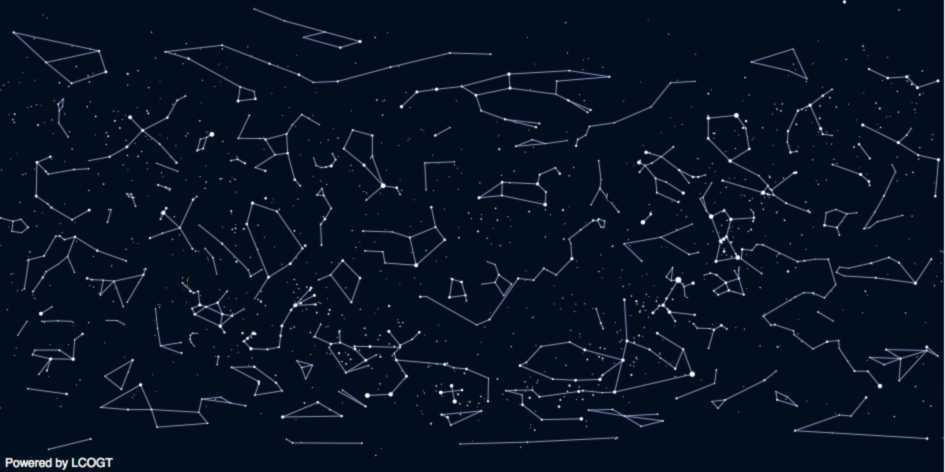
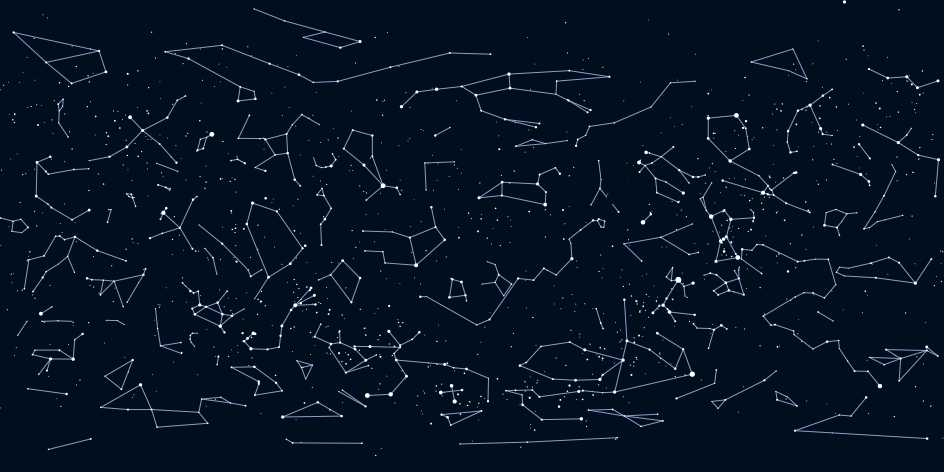
Made heat map background static

diff --git a/static/js/excanvas.min.js b/static/js/excanvas.min.js
@@ -1,0 +1,1 @@
+if(!document.createElement("canvas").getContext){(function(){var z=Math;var K=z.round;var J=z.sin;var U=z.cos;var b=z.abs;var k=z.sqrt;var D=10;var F=D/2;function T(){return this.context_||(this.context_=new W(this))}var O=Array.prototype.slice;function G(i,j,m){var Z=O.call(arguments,2);return function(){return i.apply(j,Z.concat(O.call(arguments)))}}function AD(Z){return String(Z).replace(/&/g,"&amp;").replace(/"/g,"&quot;")}function r(i){if(!i.namespaces.g_vml_){i.namespaces.add("g_vml_","urn:schemas-microsoft-com:vml","#default#VML")}if(!i.namespaces.g_o_){i.namespaces.add("g_o_","urn:schemas-microsoft-com:office:office","#default#VML")}if(!i.styleSheets.ex_canvas_){var Z=i.createStyleSheet();Z.owningElement.id="ex_canvas_";Z.cssText="canvas{display:inline-block;overflow:hidden;text-align:left;width:300px;height:150px}"}}r(document);var E={init:function(Z){if(/MSIE/.test(navigator.userAgent)&&!window.opera){var i=Z||document;i.createElement("canvas");i.attachEvent("onreadystatechange",G(this.init_,this,i))}},init_:function(m){var j=m.getElementsByTagName("canvas");for(var Z=0;Z<j.length;Z++){this.initElement(j[Z])}},initElement:function(i){if(!i.getContext){i.getContext=T;r(i.ownerDocument);i.innerHTML="";i.attachEvent("onpropertychange",S);i.attachEvent("onresize",w);var Z=i.attributes;if(Z.width&&Z.width.specified){i.style.width=Z.width.nodeValue+"px"}else{i.width=i.clientWidth}if(Z.height&&Z.height.specified){i.style.height=Z.height.nodeValue+"px"}else{i.height=i.clientHeight}}return i}};function S(i){var Z=i.srcElement;switch(i.propertyName){case"width":Z.getContext().clearRect();Z.style.width=Z.attributes.width.nodeValue+"px";Z.firstChild.style.width=Z.clientWidth+"px";break;case"height":Z.getContext().clearRect();Z.style.height=Z.attributes.height.nodeValue+"px";Z.firstChild.style.height=Z.clientHeight+"px";break}}function w(i){var Z=i.srcElement;if(Z.firstChild){Z.firstChild.style.width=Z.clientWidth+"px";Z.firstChild.style.height=Z.clientHeight+"px"}}E.init();var I=[];for(var AC=0;AC<16;AC++){for(var AB=0;AB<16;AB++){I[AC*16+AB]=AC.toString(16)+AB.toString(16)}}function V(){return[[1,0,0],[0,1,0],[0,0,1]]}function d(m,j){var i=V();for(var Z=0;Z<3;Z++){for(var AF=0;AF<3;AF++){var p=0;for(var AE=0;AE<3;AE++){p+=m[Z][AE]*j[AE][AF]}i[Z][AF]=p}}return i}function Q(i,Z){Z.fillStyle=i.fillStyle;Z.lineCap=i.lineCap;Z.lineJoin=i.lineJoin;Z.lineWidth=i.lineWidth;Z.miterLimit=i.miterLimit;Z.shadowBlur=i.shadowBlur;Z.shadowColor=i.shadowColor;Z.shadowOffsetX=i.shadowOffsetX;Z.shadowOffsetY=i.shadowOffsetY;Z.strokeStyle=i.strokeStyle;Z.globalAlpha=i.globalAlpha;Z.font=i.font;Z.textAlign=i.textAlign;Z.textBaseline=i.textBaseline;Z.arcScaleX_=i.arcScaleX_;Z.arcScaleY_=i.arcScaleY_;Z.lineScale_=i.lineScale_}var B={aliceblue:"#F0F8FF",antiquewhite:"#FAEBD7",aquamarine:"#7FFFD4",azure:"#F0FFFF",beige:"#F5F5DC",bisque:"#FFE4C4",black:"#000000",blanchedalmond:"#FFEBCD",blueviolet:"#8A2BE2",brown:"#A52A2A",burlywood:"#DEB887",cadetblue:"#5F9EA0",chartreuse:"#7FFF00",chocolate:"#D2691E",coral:"#FF7F50",cornflowerblue:"#6495ED",cornsilk:"#FFF8DC",crimson:"#DC143C",cyan:"#00FFFF",darkblue:"#00008B",darkcyan:"#008B8B",darkgoldenrod:"#B8860B",darkgray:"#A9A9A9",darkgreen:"#006400",darkgrey:"#A9A9A9",darkkhaki:"#BDB76B",darkmagenta:"#8B008B",darkolivegreen:"#556B2F",darkorange:"#FF8C00",darkorchid:"#9932CC",darkred:"#8B0000",darksalmon:"#E9967A",darkseagreen:"#8FBC8F",darkslateblue:"#483D8B",darkslategray:"#2F4F4F",darkslategrey:"#2F4F4F",darkturquoise:"#00CED1",darkviolet:"#9400D3",deeppink:"#FF1493",deepskyblue:"#00BFFF",dimgray:"#696969",dimgrey:"#696969",dodgerblue:"#1E90FF",firebrick:"#B22222",floralwhite:"#FFFAF0",forestgreen:"#228B22",gainsboro:"#DCDCDC",ghostwhite:"#F8F8FF",gold:"#FFD700",goldenrod:"#DAA520",grey:"#808080",greenyellow:"#ADFF2F",honeydew:"#F0FFF0",hotpink:"#FF69B4",indianred:"#CD5C5C",indigo:"#4B0082",ivory:"#FFFFF0",khaki:"#F0E68C",lavender:"#E6E6FA",lavenderblush:"#FFF0F5",lawngreen:"#7CFC00",lemonchiffon:"#FFFACD",lightblue:"#ADD8E6",lightcoral:"#F08080",lightcyan:"#E0FFFF",lightgoldenrodyellow:"#FAFAD2",lightgreen:"#90EE90",lightgrey:"#D3D3D3",lightpink:"#FFB6C1",lightsalmon:"#FFA07A",lightseagreen:"#20B2AA",lightskyblue:"#87CEFA",lightslategray:"#778899",lightslategrey:"#778899",lightsteelblue:"#B0C4DE",lightyellow:"#FFFFE0",limegreen:"#32CD32",linen:"#FAF0E6",magenta:"#FF00FF",mediumaquamarine:"#66CDAA",mediumblue:"#0000CD",mediumorchid:"#BA55D3",mediumpurple:"#9370DB",mediumseagreen:"#3CB371",mediumslateblue:"#7B68EE",mediumspringgreen:"#00FA9A",mediumturquoise:"#48D1CC",mediumvioletred:"#C71585",midnightblue:"#191970",mintcream:"#F5FFFA",mistyrose:"#FFE4E1",moccasin:"#FFE4B5",navajowhite:"#FFDEAD",oldlace:"#FDF5E6",olivedrab:"#6B8E23",orange:"#FFA500",orangered:"#FF4500",orchid:"#DA70D6",palegoldenrod:"#EEE8AA",palegreen:"#98FB98",paleturquoise:"#AFEEEE",palevioletred:"#DB7093",papayawhip:"#FFEFD5",peachpuff:"#FFDAB9",peru:"#CD853F",pink:"#FFC0CB",plum:"#DDA0DD",powderblue:"#B0E0E6",rosybrown:"#BC8F8F",royalblue:"#4169E1",saddlebrown:"#8B4513",salmon:"#FA8072",sandybrown:"#F4A460",seagreen:"#2E8B57",seashell:"#FFF5EE",sienna:"#A0522D",skyblue:"#87CEEB",slateblue:"#6A5ACD",slategray:"#708090",slategrey:"#708090",snow:"#FFFAFA",springgreen:"#00FF7F",steelblue:"#4682B4",tan:"#D2B48C",thistle:"#D8BFD8",tomato:"#FF6347",turquoise:"#40E0D0",violet:"#EE82EE",wheat:"#F5DEB3",whitesmoke:"#F5F5F5",yellowgreen:"#9ACD32"};function g(i){var m=i.indexOf("(",3);var Z=i.indexOf(")",m+1);var j=i.substring(m+1,Z).split(",");if(j.length==4&&i.substr(3,1)=="a"){alpha=Number(j[3])}else{j[3]=1}return j}function C(Z){return parseFloat(Z)/100}function N(i,j,Z){return Math.min(Z,Math.max(j,i))}function c(AF){var j,i,Z;h=parseFloat(AF[0])/360%360;if(h<0){h++}s=N(C(AF[1]),0,1);l=N(C(AF[2]),0,1);if(s==0){j=i=Z=l}else{var m=l<0.5?l*(1+s):l+s-l*s;var AE=2*l-m;j=A(AE,m,h+1/3);i=A(AE,m,h);Z=A(AE,m,h-1/3)}return"#"+I[Math.floor(j*255)]+I[Math.floor(i*255)]+I[Math.floor(Z*255)]}function A(i,Z,j){if(j<0){j++}if(j>1){j--}if(6*j<1){return i+(Z-i)*6*j}else{if(2*j<1){return Z}else{if(3*j<2){return i+(Z-i)*(2/3-j)*6}else{return i}}}}function Y(Z){var AE,p=1;Z=String(Z);if(Z.charAt(0)=="#"){AE=Z}else{if(/^rgb/.test(Z)){var m=g(Z);var AE="#",AF;for(var j=0;j<3;j++){if(m[j].indexOf("%")!=-1){AF=Math.floor(C(m[j])*255)}else{AF=Number(m[j])}AE+=I[N(AF,0,255)]}p=m[3]}else{if(/^hsl/.test(Z)){var m=g(Z);AE=c(m);p=m[3]}else{AE=B[Z]||Z}}}return{color:AE,alpha:p}}var L={style:"normal",variant:"normal",weight:"normal",size:10,family:"sans-serif"};var f={};function X(Z){if(f[Z]){return f[Z]}var m=document.createElement("div");var j=m.style;try{j.font=Z}catch(i){}return f[Z]={style:j.fontStyle||L.style,variant:j.fontVariant||L.variant,weight:j.fontWeight||L.weight,size:j.fontSize||L.size,family:j.fontFamily||L.family}}function P(j,i){var Z={};for(var AF in j){Z[AF]=j[AF]}var AE=parseFloat(i.currentStyle.fontSize),m=parseFloat(j.size);if(typeof j.size=="number"){Z.size=j.size}else{if(j.size.indexOf("px")!=-1){Z.size=m}else{if(j.size.indexOf("em")!=-1){Z.size=AE*m}else{if(j.size.indexOf("%")!=-1){Z.size=(AE/100)*m}else{if(j.size.indexOf("pt")!=-1){Z.size=m/0.75}else{Z.size=AE}}}}}Z.size*=0.981;return Z}function AA(Z){return Z.style+" "+Z.variant+" "+Z.weight+" "+Z.size+"px "+Z.family}function t(Z){switch(Z){case"butt":return"flat";case"round":return"round";case"square":default:return"square"}}function W(i){this.m_=V();this.mStack_=[];this.aStack_=[];this.currentPath_=[];this.strokeStyle="#000";this.fillStyle="#000";this.lineWidth=1;this.lineJoin="miter";this.lineCap="butt";this.miterLimit=D*1;this.globalAlpha=1;this.font="10px sans-serif";this.textAlign="left";this.textBaseline="alphabetic";this.canvas=i;var Z=i.ownerDocument.createElement("div");Z.style.width=i.clientWidth+"px";Z.style.height=i.clientHeight+"px";Z.style.overflow="hidden";Z.style.position="absolute";i.appendChild(Z);this.element_=Z;this.arcScaleX_=1;this.arcScaleY_=1;this.lineScale_=1}var M=W.prototype;M.clearRect=function(){if(this.textMeasureEl_){this.textMeasureEl_.removeNode(true);this.textMeasureEl_=null}this.element_.innerHTML=""};M.beginPath=function(){this.currentPath_=[]};M.moveTo=function(i,Z){var j=this.getCoords_(i,Z);this.currentPath_.push({type:"moveTo",x:j.x,y:j.y});this.currentX_=j.x;this.currentY_=j.y};M.lineTo=function(i,Z){var j=this.getCoords_(i,Z);this.currentPath_.push({type:"lineTo",x:j.x,y:j.y});this.currentX_=j.x;this.currentY_=j.y};M.bezierCurveTo=function(j,i,AI,AH,AG,AE){var Z=this.getCoords_(AG,AE);var AF=this.getCoords_(j,i);var m=this.getCoords_(AI,AH);e(this,AF,m,Z)};function e(Z,m,j,i){Z.currentPath_.push({type:"bezierCurveTo",cp1x:m.x,cp1y:m.y,cp2x:j.x,cp2y:j.y,x:i.x,y:i.y});Z.currentX_=i.x;Z.currentY_=i.y}M.quadraticCurveTo=function(AG,j,i,Z){var AF=this.getCoords_(AG,j);var AE=this.getCoords_(i,Z);var AH={x:this.currentX_+2/3*(AF.x-this.currentX_),y:this.currentY_+2/3*(AF.y-this.currentY_)};var m={x:AH.x+(AE.x-this.currentX_)/3,y:AH.y+(AE.y-this.currentY_)/3};e(this,AH,m,AE)};M.arc=function(AJ,AH,AI,AE,i,j){AI*=D;var AN=j?"at":"wa";var AK=AJ+U(AE)*AI-F;var AM=AH+J(AE)*AI-F;var Z=AJ+U(i)*AI-F;var AL=AH+J(i)*AI-F;if(AK==Z&&!j){AK+=0.125}var m=this.getCoords_(AJ,AH);var AG=this.getCoords_(AK,AM);var AF=this.getCoords_(Z,AL);this.currentPath_.push({type:AN,x:m.x,y:m.y,radius:AI,xStart:AG.x,yStart:AG.y,xEnd:AF.x,yEnd:AF.y})};M.rect=function(j,i,Z,m){this.moveTo(j,i);this.lineTo(j+Z,i);this.lineTo(j+Z,i+m);this.lineTo(j,i+m);this.closePath()};M.strokeRect=function(j,i,Z,m){var p=this.currentPath_;this.beginPath();this.moveTo(j,i);this.lineTo(j+Z,i);this.lineTo(j+Z,i+m);this.lineTo(j,i+m);this.closePath();this.stroke();this.currentPath_=p};M.fillRect=function(j,i,Z,m){var p=this.currentPath_;this.beginPath();this.moveTo(j,i);this.lineTo(j+Z,i);this.lineTo(j+Z,i+m);this.lineTo(j,i+m);this.closePath();this.fill();this.currentPath_=p};M.createLinearGradient=function(i,m,Z,j){var p=new v("gradient");p.x0_=i;p.y0_=m;p.x1_=Z;p.y1_=j;return p};M.createRadialGradient=function(m,AE,j,i,p,Z){var AF=new v("gradientradial");AF.x0_=m;AF.y0_=AE;AF.r0_=j;AF.x1_=i;AF.y1_=p;AF.r1_=Z;return AF};M.drawImage=function(AO,j){var AH,AF,AJ,AV,AM,AK,AQ,AX;var AI=AO.runtimeStyle.width;var AN=AO.runtimeStyle.height;AO.runtimeStyle.width="auto";AO.runtimeStyle.height="auto";var AG=AO.width;var AT=AO.height;AO.runtimeStyle.width=AI;AO.runtimeStyle.height=AN;if(arguments.length==3){AH=arguments[1];AF=arguments[2];AM=AK=0;AQ=AJ=AG;AX=AV=AT}else{if(arguments.length==5){AH=arguments[1];AF=arguments[2];AJ=arguments[3];AV=arguments[4];AM=AK=0;AQ=AG;AX=AT}else{if(arguments.length==9){AM=arguments[1];AK=arguments[2];AQ=arguments[3];AX=arguments[4];AH=arguments[5];AF=arguments[6];AJ=arguments[7];AV=arguments[8]}else{throw Error("Invalid number of arguments")}}}var AW=this.getCoords_(AH,AF);var m=AQ/2;var i=AX/2;var AU=[];var Z=10;var AE=10;AU.push(" <g_vml_:group",' coordsize="',D*Z,",",D*AE,'"',' coordorigin="0,0"',' style="width:',Z,"px;height:",AE,"px;position:absolute;");if(this.m_[0][0]!=1||this.m_[0][1]||this.m_[1][1]!=1||this.m_[1][0]){var p=[];p.push("M11=",this.m_[0][0],",","M12=",this.m_[1][0],",","M21=",this.m_[0][1],",","M22=",this.m_[1][1],",","Dx=",K(AW.x/D),",","Dy=",K(AW.y/D),"");var AS=AW;var AR=this.getCoords_(AH+AJ,AF);var AP=this.getCoords_(AH,AF+AV);var AL=this.getCoords_(AH+AJ,AF+AV);AS.x=z.max(AS.x,AR.x,AP.x,AL.x);AS.y=z.max(AS.y,AR.y,AP.y,AL.y);AU.push("padding:0 ",K(AS.x/D),"px ",K(AS.y/D),"px 0;filter:progid:DXImageTransform.Microsoft.Matrix(",p.join(""),", sizingmethod='clip');")}else{AU.push("top:",K(AW.y/D),"px;left:",K(AW.x/D),"px;")}AU.push(' ">','<g_vml_:image src="',AO.src,'"',' style="width:',D*AJ,"px;"," height:",D*AV,'px"',' cropleft="',AM/AG,'"',' croptop="',AK/AT,'"',' cropright="',(AG-AM-AQ)/AG,'"',' cropbottom="',(AT-AK-AX)/AT,'"'," />","</g_vml_:group>");this.element_.insertAdjacentHTML("BeforeEnd",AU.join(""))};M.stroke=function(AM){var m=10;var AN=10;var AE=5000;var AG={x:null,y:null};var AL={x:null,y:null};for(var AH=0;AH<this.currentPath_.length;AH+=AE){var AK=[];var AF=false;AK.push("<g_vml_:shape",' filled="',!!AM,'"',' style="position:absolute;width:',m,"px;height:",AN,'px;"',' coordorigin="0,0"',' coordsize="',D*m,",",D*AN,'"',' stroked="',!AM,'"',' path="');var AO=false;for(var AI=AH;AI<Math.min(AH+AE,this.currentPath_.length);AI++){if(AI%AE==0&&AI>0){AK.push(" m ",K(this.currentPath_[AI-1].x),",",K(this.currentPath_[AI-1].y))}var Z=this.currentPath_[AI];var AJ;switch(Z.type){case"moveTo":AJ=Z;AK.push(" m ",K(Z.x),",",K(Z.y));break;case"lineTo":AK.push(" l ",K(Z.x),",",K(Z.y));break;case"close":AK.push(" x ");Z=null;break;case"bezierCurveTo":AK.push(" c ",K(Z.cp1x),",",K(Z.cp1y),",",K(Z.cp2x),",",K(Z.cp2y),",",K(Z.x),",",K(Z.y));break;case"at":case"wa":AK.push(" ",Z.type," ",K(Z.x-this.arcScaleX_*Z.radius),",",K(Z.y-this.arcScaleY_*Z.radius)," ",K(Z.x+this.arcScaleX_*Z.radius),",",K(Z.y+this.arcScaleY_*Z.radius)," ",K(Z.xStart),",",K(Z.yStart)," ",K(Z.xEnd),",",K(Z.yEnd));break}if(Z){if(AG.x==null||Z.x<AG.x){AG.x=Z.x}if(AL.x==null||Z.x>AL.x){AL.x=Z.x}if(AG.y==null||Z.y<AG.y){AG.y=Z.y}if(AL.y==null||Z.y>AL.y){AL.y=Z.y}}}AK.push(' ">');if(!AM){R(this,AK)}else{a(this,AK,AG,AL)}AK.push("</g_vml_:shape>");this.element_.insertAdjacentHTML("beforeEnd",AK.join(""))}};function R(j,AE){var i=Y(j.strokeStyle);var m=i.color;var p=i.alpha*j.globalAlpha;var Z=j.lineScale_*j.lineWidth;if(Z<1){p*=Z}AE.push("<g_vml_:stroke",' opacity="',p,'"',' joinstyle="',j.lineJoin,'"',' miterlimit="',j.miterLimit,'"',' endcap="',t(j.lineCap),'"',' weight="',Z,'px"',' color="',m,'" />')}function a(AO,AG,Ah,AP){var AH=AO.fillStyle;var AY=AO.arcScaleX_;var AX=AO.arcScaleY_;var Z=AP.x-Ah.x;var m=AP.y-Ah.y;if(AH instanceof v){var AL=0;var Ac={x:0,y:0};var AU=0;var AK=1;if(AH.type_=="gradient"){var AJ=AH.x0_/AY;var j=AH.y0_/AX;var AI=AH.x1_/AY;var Aj=AH.y1_/AX;var Ag=AO.getCoords_(AJ,j);var Af=AO.getCoords_(AI,Aj);var AE=Af.x-Ag.x;var p=Af.y-Ag.y;AL=Math.atan2(AE,p)*180/Math.PI;if(AL<0){AL+=360}if(AL<0.000001){AL=0}}else{var Ag=AO.getCoords_(AH.x0_,AH.y0_);Ac={x:(Ag.x-Ah.x)/Z,y:(Ag.y-Ah.y)/m};Z/=AY*D;m/=AX*D;var Aa=z.max(Z,m);AU=2*AH.r0_/Aa;AK=2*AH.r1_/Aa-AU}var AS=AH.colors_;AS.sort(function(Ak,i){return Ak.offset-i.offset});var AN=AS.length;var AR=AS[0].color;var AQ=AS[AN-1].color;var AW=AS[0].alpha*AO.globalAlpha;var AV=AS[AN-1].alpha*AO.globalAlpha;var Ab=[];for(var Ae=0;Ae<AN;Ae++){var AM=AS[Ae];Ab.push(AM.offset*AK+AU+" "+AM.color)}AG.push('<g_vml_:fill type="',AH.type_,'"',' method="none" focus="100%"',' color="',AR,'"',' color2="',AQ,'"',' colors="',Ab.join(","),'"',' opacity="',AV,'"',' g_o_:opacity2="',AW,'"',' angle="',AL,'"',' focusposition="',Ac.x,",",Ac.y,'" />')}else{if(AH instanceof u){if(Z&&m){var AF=-Ah.x;var AZ=-Ah.y;AG.push("<g_vml_:fill",' position="',AF/Z*AY*AY,",",AZ/m*AX*AX,'"',' type="tile"',' src="',AH.src_,'" />')}}else{var Ai=Y(AO.fillStyle);var AT=Ai.color;var Ad=Ai.alpha*AO.globalAlpha;AG.push('<g_vml_:fill color="',AT,'" opacity="',Ad,'" />')}}}M.fill=function(){this.stroke(true)};M.closePath=function(){this.currentPath_.push({type:"close"})};M.getCoords_=function(j,i){var Z=this.m_;return{x:D*(j*Z[0][0]+i*Z[1][0]+Z[2][0])-F,y:D*(j*Z[0][1]+i*Z[1][1]+Z[2][1])-F}};M.save=function(){var Z={};Q(this,Z);this.aStack_.push(Z);this.mStack_.push(this.m_);this.m_=d(V(),this.m_)};M.restore=function(){if(this.aStack_.length){Q(this.aStack_.pop(),this);this.m_=this.mStack_.pop()}};function H(Z){return isFinite(Z[0][0])&&isFinite(Z[0][1])&&isFinite(Z[1][0])&&isFinite(Z[1][1])&&isFinite(Z[2][0])&&isFinite(Z[2][1])}function y(i,Z,j){if(!H(Z)){return }i.m_=Z;if(j){var p=Z[0][0]*Z[1][1]-Z[0][1]*Z[1][0];i.lineScale_=k(b(p))}}M.translate=function(j,i){var Z=[[1,0,0],[0,1,0],[j,i,1]];y(this,d(Z,this.m_),false)};M.rotate=function(i){var m=U(i);var j=J(i);var Z=[[m,j,0],[-j,m,0],[0,0,1]];y(this,d(Z,this.m_),false)};M.scale=function(j,i){this.arcScaleX_*=j;this.arcScaleY_*=i;var Z=[[j,0,0],[0,i,0],[0,0,1]];y(this,d(Z,this.m_),true)};M.transform=function(p,m,AF,AE,i,Z){var j=[[p,m,0],[AF,AE,0],[i,Z,1]];y(this,d(j,this.m_),true)};M.setTransform=function(AE,p,AG,AF,j,i){var Z=[[AE,p,0],[AG,AF,0],[j,i,1]];y(this,Z,true)};M.drawText_=function(AK,AI,AH,AN,AG){var AM=this.m_,AQ=1000,i=0,AP=AQ,AF={x:0,y:0},AE=[];var Z=P(X(this.font),this.element_);var j=AA(Z);var AR=this.element_.currentStyle;var p=this.textAlign.toLowerCase();switch(p){case"left":case"center":case"right":break;case"end":p=AR.direction=="ltr"?"right":"left";break;case"start":p=AR.direction=="rtl"?"right":"left";break;default:p="left"}switch(this.textBaseline){case"hanging":case"top":AF.y=Z.size/1.75;break;case"middle":break;default:case null:case"alphabetic":case"ideographic":case"bottom":AF.y=-Z.size/2.25;break}switch(p){case"right":i=AQ;AP=0.05;break;case"center":i=AP=AQ/2;break}var AO=this.getCoords_(AI+AF.x,AH+AF.y);AE.push('<g_vml_:line from="',-i,' 0" to="',AP,' 0.05" ',' coordsize="100 100" coordorigin="0 0"',' filled="',!AG,'" stroked="',!!AG,'" style="position:absolute;width:1px;height:1px;">');if(AG){R(this,AE)}else{a(this,AE,{x:-i,y:0},{x:AP,y:Z.size})}var AL=AM[0][0].toFixed(3)+","+AM[1][0].toFixed(3)+","+AM[0][1].toFixed(3)+","+AM[1][1].toFixed(3)+",0,0";var AJ=K(AO.x/D)+","+K(AO.y/D);AE.push('<g_vml_:skew on="t" matrix="',AL,'" ',' offset="',AJ,'" origin="',i,' 0" />','<g_vml_:path textpathok="true" />','<g_vml_:textpath on="true" string="',AD(AK),'" style="v-text-align:',p,";font:",AD(j),'" /></g_vml_:line>');this.element_.insertAdjacentHTML("beforeEnd",AE.join(""))};M.fillText=function(j,Z,m,i){this.drawText_(j,Z,m,i,false)};M.strokeText=function(j,Z,m,i){this.drawText_(j,Z,m,i,true)};M.measureText=function(j){if(!this.textMeasureEl_){var Z='<span style="position:absolute;top:-20000px;left:0;padding:0;margin:0;border:none;white-space:pre;"></span>';this.element_.insertAdjacentHTML("beforeEnd",Z);this.textMeasureEl_=this.element_.lastChild}var i=this.element_.ownerDocument;this.textMeasureEl_.innerHTML="";this.textMeasureEl_.style.font=this.font;this.textMeasureEl_.appendChild(i.createTextNode(j));return{width:this.textMeasureEl_.offsetWidth}};M.clip=function(){};M.arcTo=function(){};M.createPattern=function(i,Z){return new u(i,Z)};function v(Z){this.type_=Z;this.x0_=0;this.y0_=0;this.r0_=0;this.x1_=0;this.y1_=0;this.r1_=0;this.colors_=[]}v.prototype.addColorStop=function(i,Z){Z=Y(Z);this.colors_.push({offset:i,color:Z.color,alpha:Z.alpha})};function u(i,Z){q(i);switch(Z){case"repeat":case null:case"":this.repetition_="repeat";break;case"repeat-x":case"repeat-y":case"no-repeat":this.repetition_=Z;break;default:n("SYNTAX_ERR")}this.src_=i.src;this.width_=i.width;this.height_=i.height}function n(Z){throw new o(Z)}function q(Z){if(!Z||Z.nodeType!=1||Z.tagName!="IMG"){n("TYPE_MISMATCH_ERR")}if(Z.readyState!="complete"){n("INVALID_STATE_ERR")}}function o(Z){this.code=this[Z];this.message=Z+": DOM Exception "+this.code}var x=o.prototype=new Error;x.INDEX_SIZE_ERR=1;x.DOMSTRING_SIZE_ERR=2;x.HIERARCHY_REQUEST_ERR=3;x.WRONG_DOCUMENT_ERR=4;x.INVALID_CHARACTER_ERR=5;x.NO_DATA_ALLOWED_ERR=6;x.NO_MODIFICATION_ALLOWED_ERR=7;x.NOT_FOUND_ERR=8;x.NOT_SUPPORTED_ERR=9;x.INUSE_ATTRIBUTE_ERR=10;x.INVALID_STATE_ERR=11;x.SYNTAX_ERR=12;x.INVALID_MODIFICATION_ERR=13;x.NAMESPACE_ERR=14;x.INVALID_ACCESS_ERR=15;x.VALIDATION_ERR=16;x.TYPE_MISMATCH_ERR=17;G_vmlCanvasManager=E;CanvasRenderingContext2D=W;CanvasGradient=v;CanvasPattern=u;DOMException=o})()};

diff --git a/templates/faulkes/map.html b/templates/faulkes/map.html
@@ -2,24 +2,13 @@
 {% load faulkes_extras %}
 
 {% block script-content %}
-	<!--[if lt IE 9]><script src="http://lcogt.net/virtualsky/embed/excanvas.js" type="text/javascript"></script><![endif]-->
-	<script type="text/javascript" src="{{ MEDIA_URL }}js/rti_archive_virtualsky.js"></script>
 	<script type="text/javascript" src="{{ MEDIA_URL }}js/raphael-min.js"></script>
 	<script>
 	<!--
 	ras = {{ ras|safe }}
 	dcs = {{ dcs|safe }}
-	function spinOff(){
-		planetarium.az_step = 0;
-		if(typeof timer_az!='undefined') clearTimeout(timer_az);
-	}
-	window.onload = function(){
-		planetarium = new VirtualSky({id:'starmap',projection:'planechart',sky_gradient:false,constellations:true,magnitude:5,showposition:false,showdate:false,showorbits:false});
-		planetarium.draw();
-	}
-
 	$(document).ready(function(){
-		reso = 5
+		reso = 5;
 		wide = 944;
 		tall = 472;
 		nx = Math.round(360/reso);
@@ -31,11 +20,9 @@
 			row = Math.floor(ny*(90-dcs[i])/180);
 			col = nx-Math.ceil(nx*(ras[i]/360));	// RA goes in the opposite sense on the sky
 			j = row*nx + col;
-			//console.log(i,j,row,col,grid.length)
 			grid[j]++;
 			if(grid[j] > max) max = grid[j];
 		}
-		
 		var paper = Raphael("heatmap", wide, tall);
 		dx = wide/nx;
 		dy = tall/ny;

diff --git a/templates/faulkes/telescope.html b/templates/faulkes/telescope.html
@@ -2,6 +2,8 @@
 {% load faulkes_extras %}
 
 {% block script-content %}
+	<meta http-equiv="X-UA-Compatible" content="IE=9" />
+	<!--[if lt IE 9]><script src="{{MEDIA_URL}}js/excanvas.min.js" type="text/javascript"></script><![endif]-->
 	<script type="text/javascript" src="{{ MEDIA_URL }}js/rti_archive_virtualsky.js"></script>
 	<script>
 		

diff --git a/templates/faulkes/site.html b/templates/faulkes/site.html
@@ -2,6 +2,8 @@
 {% load faulkes_extras %}
 
 {% block script-content %}
+	<meta http-equiv="X-UA-Compatible" content="IE=9" />
+	<!--[if lt IE 9]><script src="{{MEDIA_URL}}js/excanvas.min.js" type="text/javascript"></script><![endif]-->
 	<script type="text/javascript" src="{{MEDIA_URL}}js/rti_archive_virtualsky.js"></script>
 	<script>
 
